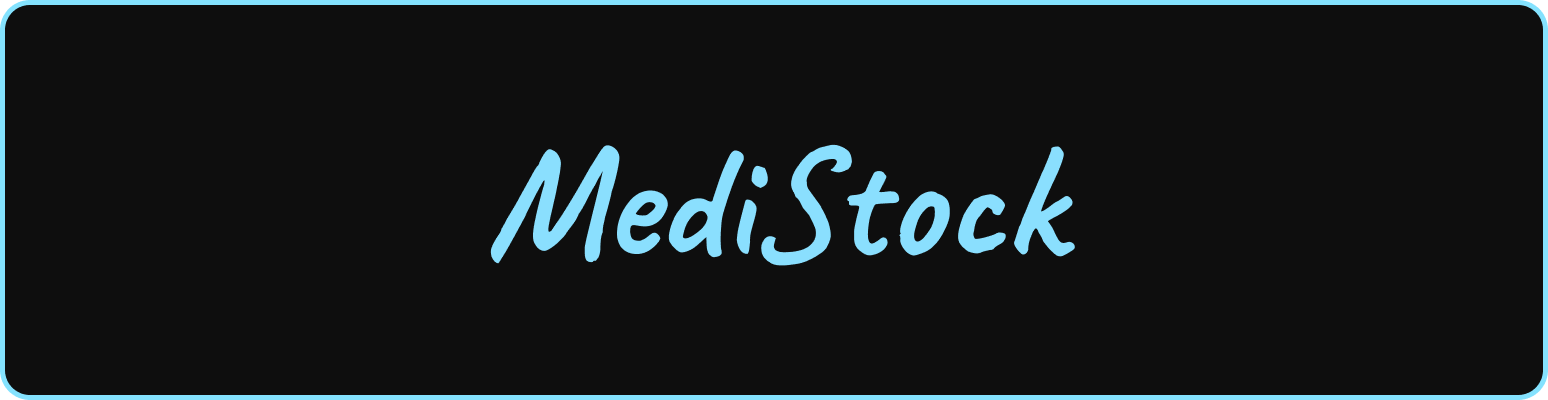
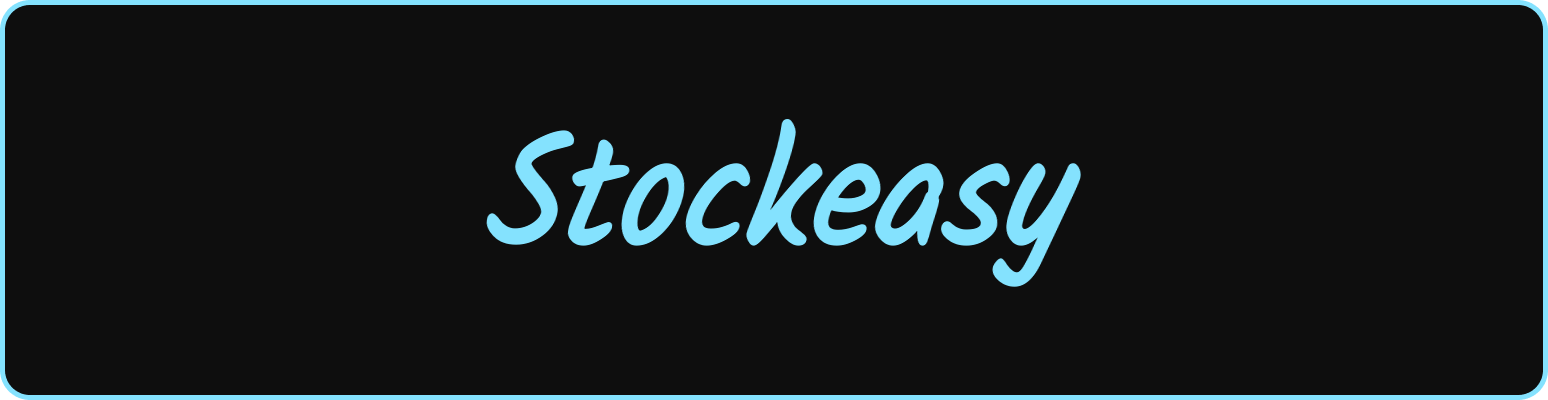
Renomeia MediStock para Stockeasy

Changed region(s): [[0.3101, 0.3, 0.7132, 0.72]]

diff --git a/README.md b/README.md
@@ -1,6 +1,6 @@
 ![banner](./assets/banner.png)
 
-# MediStock · Data Science & Statistical Computing
+# Stockeasy · Data Science & Statistical Computing
 
 | Integrante | RM |
 |---|---|
@@ -13,7 +13,7 @@ Challenge 2025.2 · DASA · Engenharia de Software · FIAP
 
 ---
 
-## O projeto MediStock
+## O projeto Stockeasy
 
 A **[FIAP](https://www.fiap.com.br)**, com o objetivo de auxiliar a rede de saúde integrada **[DASA](https://dasa.com.br)** no aprimoramento de seus processos internos, incentivou a criação de um sistema de controle de estoques dinâmico, que apoia decisões sobre compras, redistribuições e balanceamento de estoque entre unidades da rede.
 
